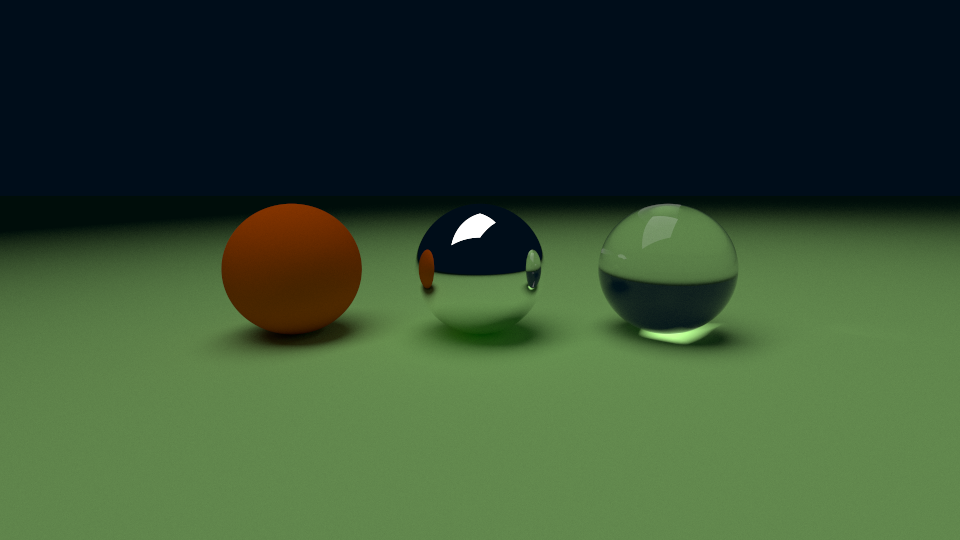
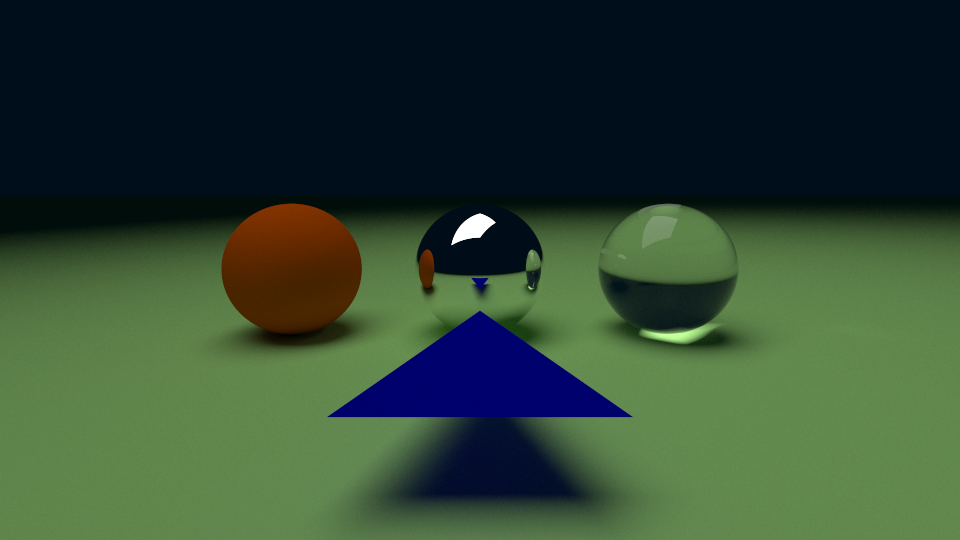
Add triangle shape.

Changed region(s): [[0.3438, 0.5037, 0.6562, 1.0]]

diff --git a/trace/src/shape/triangle.rs b/trace/src/shape/triangle.rs
@@ -1,0 +1,69 @@
+use crate::material::{DynMaterial, Material};
+use crate::math::Ray;
+use crate::shape::{Intersection, Shape};
+use na::{Point3, UnitVector3, Vector3};
+use rand::Rng;
+
+pub struct Triangle<R: Rng> {
+    p0: Point3<f32>,
+    v1: Vector3<f32>,
+    v2: Vector3<f32>,
+    material: Box<DynMaterial<R>>,
+}
+
+impl<R: Rng> Triangle<R> {
+    const EPSILON: f32 = 0.0000001;
+
+    pub fn from_points<M: Material<R> + Send + Sync + 'static>(
+        p0: &Point3<f32>,
+        p1: &Point3<f32>,
+        p2: &Point3<f32>,
+        material: M,
+    ) -> Self {
+        Self {
+            p0: *p0,
+            v1: p1 - p0,
+            v2: p2 - p0,
+            material: Box::new(material),
+        }
+    }
+}
+
+impl<R: Rng> Shape<R> for Triangle<R> {
+    fn intersect(&self, ray: &Ray) -> Option<Intersection<R>> {
+        // Möller–Trumbore intersection algorithm
+        let h = ray.direction().cross(&self.v2);
+        let a = self.v1.dot(&h);
+        if (-Self::EPSILON..=Self::EPSILON).contains(&a) {
+            return None;
+        }
+        let f = 1.0 / a;
+        let s = ray.origin() - self.p0;
+        let u = f * s.dot(&h);
+        if !(0.0..=1.0).contains(&u) {
+            return None;
+        }
+        let q = s.cross(&self.v1);
+        let v = f * ray.direction().dot(&q);
+        if v < 0.0 || (u + v) > 1.0 {
+            return None;
+        }
+
+        let distance = f * self.v2.dot(&q);
+        if distance < Self::EPSILON {
+            return None;
+        }
+
+        let point = ray.origin() + ray.direction().as_ref() * distance;
+        Some(Intersection {
+            distance,
+            point,
+            normal: UnitVector3::new_normalize(self.v1.cross(&self.v2)),
+            shape: self,
+        })
+    }
+
+    fn material(&self) -> &dyn Material<R> {
+        self.material.as_ref()
+    }
+}

diff --git a/examples/showcase/src/showcase_scene.rs b/examples/showcase/src/showcase_scene.rs
@@ -3,7 +3,7 @@ use rand::Rng;
 use trace::camera::PinholeCamera;
 use trace::material::{Lambertian, Metal, Translucent};
 use trace::scene::Scene;
-use trace::shape::{Quad, Sphere};
+use trace::shape::{Quad, Sphere, Triangle};
 use trace::spectrum::Spectrum;
 
 pub fn create_scene<R: Rng + 'static>() -> Scene<R> {
@@ -31,6 +31,14 @@ pub fn create_scene<R: Rng + 'static>() -> Scene<R> {
         60.0_f32.to_radians(),
     );
 
+    let triangle_material = Lambertian::new(Spectrum::from([0, 0, 200]), Spectrum::zeros());
+    let triangle = Triangle::from_points(
+        &[0.7, 0.5, -3.0].into(),
+        &[-0.7, 0.5, -3.0].into(),
+        &[0.0, 0.5, -1.0].into(),
+        triangle_material,
+    );
+
     let matte = Lambertian::new(Spectrum::from([240, 100, 0]), Spectrum::zeros());
     let matte_ball = Sphere::new([-2.0, 0.71, 0.0].into(), 0.7, matte);
 
@@ -46,7 +54,8 @@ pub fn create_scene<R: Rng + 'static>() -> Scene<R> {
         .add(light)
         .add(matte_ball)
         .add(silver_ball)
-        .add(translucent_ball);
+        .add(translucent_ball)
+        .add(triangle);
 
     scene
 }

diff --git a/examples/showcase/src/main.rs b/examples/showcase/src/main.rs
@@ -21,7 +21,7 @@ fn main() -> Result<(), Box<dyn Error>> {
     println!("Rendering time: {}s.", duration.as_secs_f32());
 
     let image_rgb: ImageBuffer<Rgb<u8>, _> = image.convert();
-    image_rgb.save(Path::new("../../../docs/showcase_10k.png"))?;
+    image_rgb.save(Path::new("showcase_10k.png"))?;
 
     Ok(())
 }

diff --git a/trace/src/shape.rs b/trace/src/shape.rs
@@ -1,8 +1,10 @@
 mod quad;
 mod sphere;
+mod triangle;
 
 pub use self::quad::Quad;
 pub use self::sphere::Sphere;
+pub use self::triangle::Triangle;
 use crate::material::Material;
 use crate::math::Ray;
 use na::{Point3, UnitVector3};

diff --git a/README.md b/README.md
@@ -23,7 +23,10 @@ This project is not complete nor correct by any means. It was created for the fo
 * [x] antialiasing
 * [x] refraction
 * [x] depth of field
+* [x] russian roulette
+* [ ] textures
 * [ ] serialize and deserialize scene (.obj loader)
+* [ ] spectra rendering (instead of RGB)
 * [ ] light dispersion (stretch)
 
 ## Known bugs
@@ -32,6 +35,7 @@ This project is not complete nor correct by any means. It was created for the fo
 ## Non-goals
 * be fast
 * be efficient
+* model diffraction
 
 ## References
 * https://github.com/mmp/pbrt-v4
